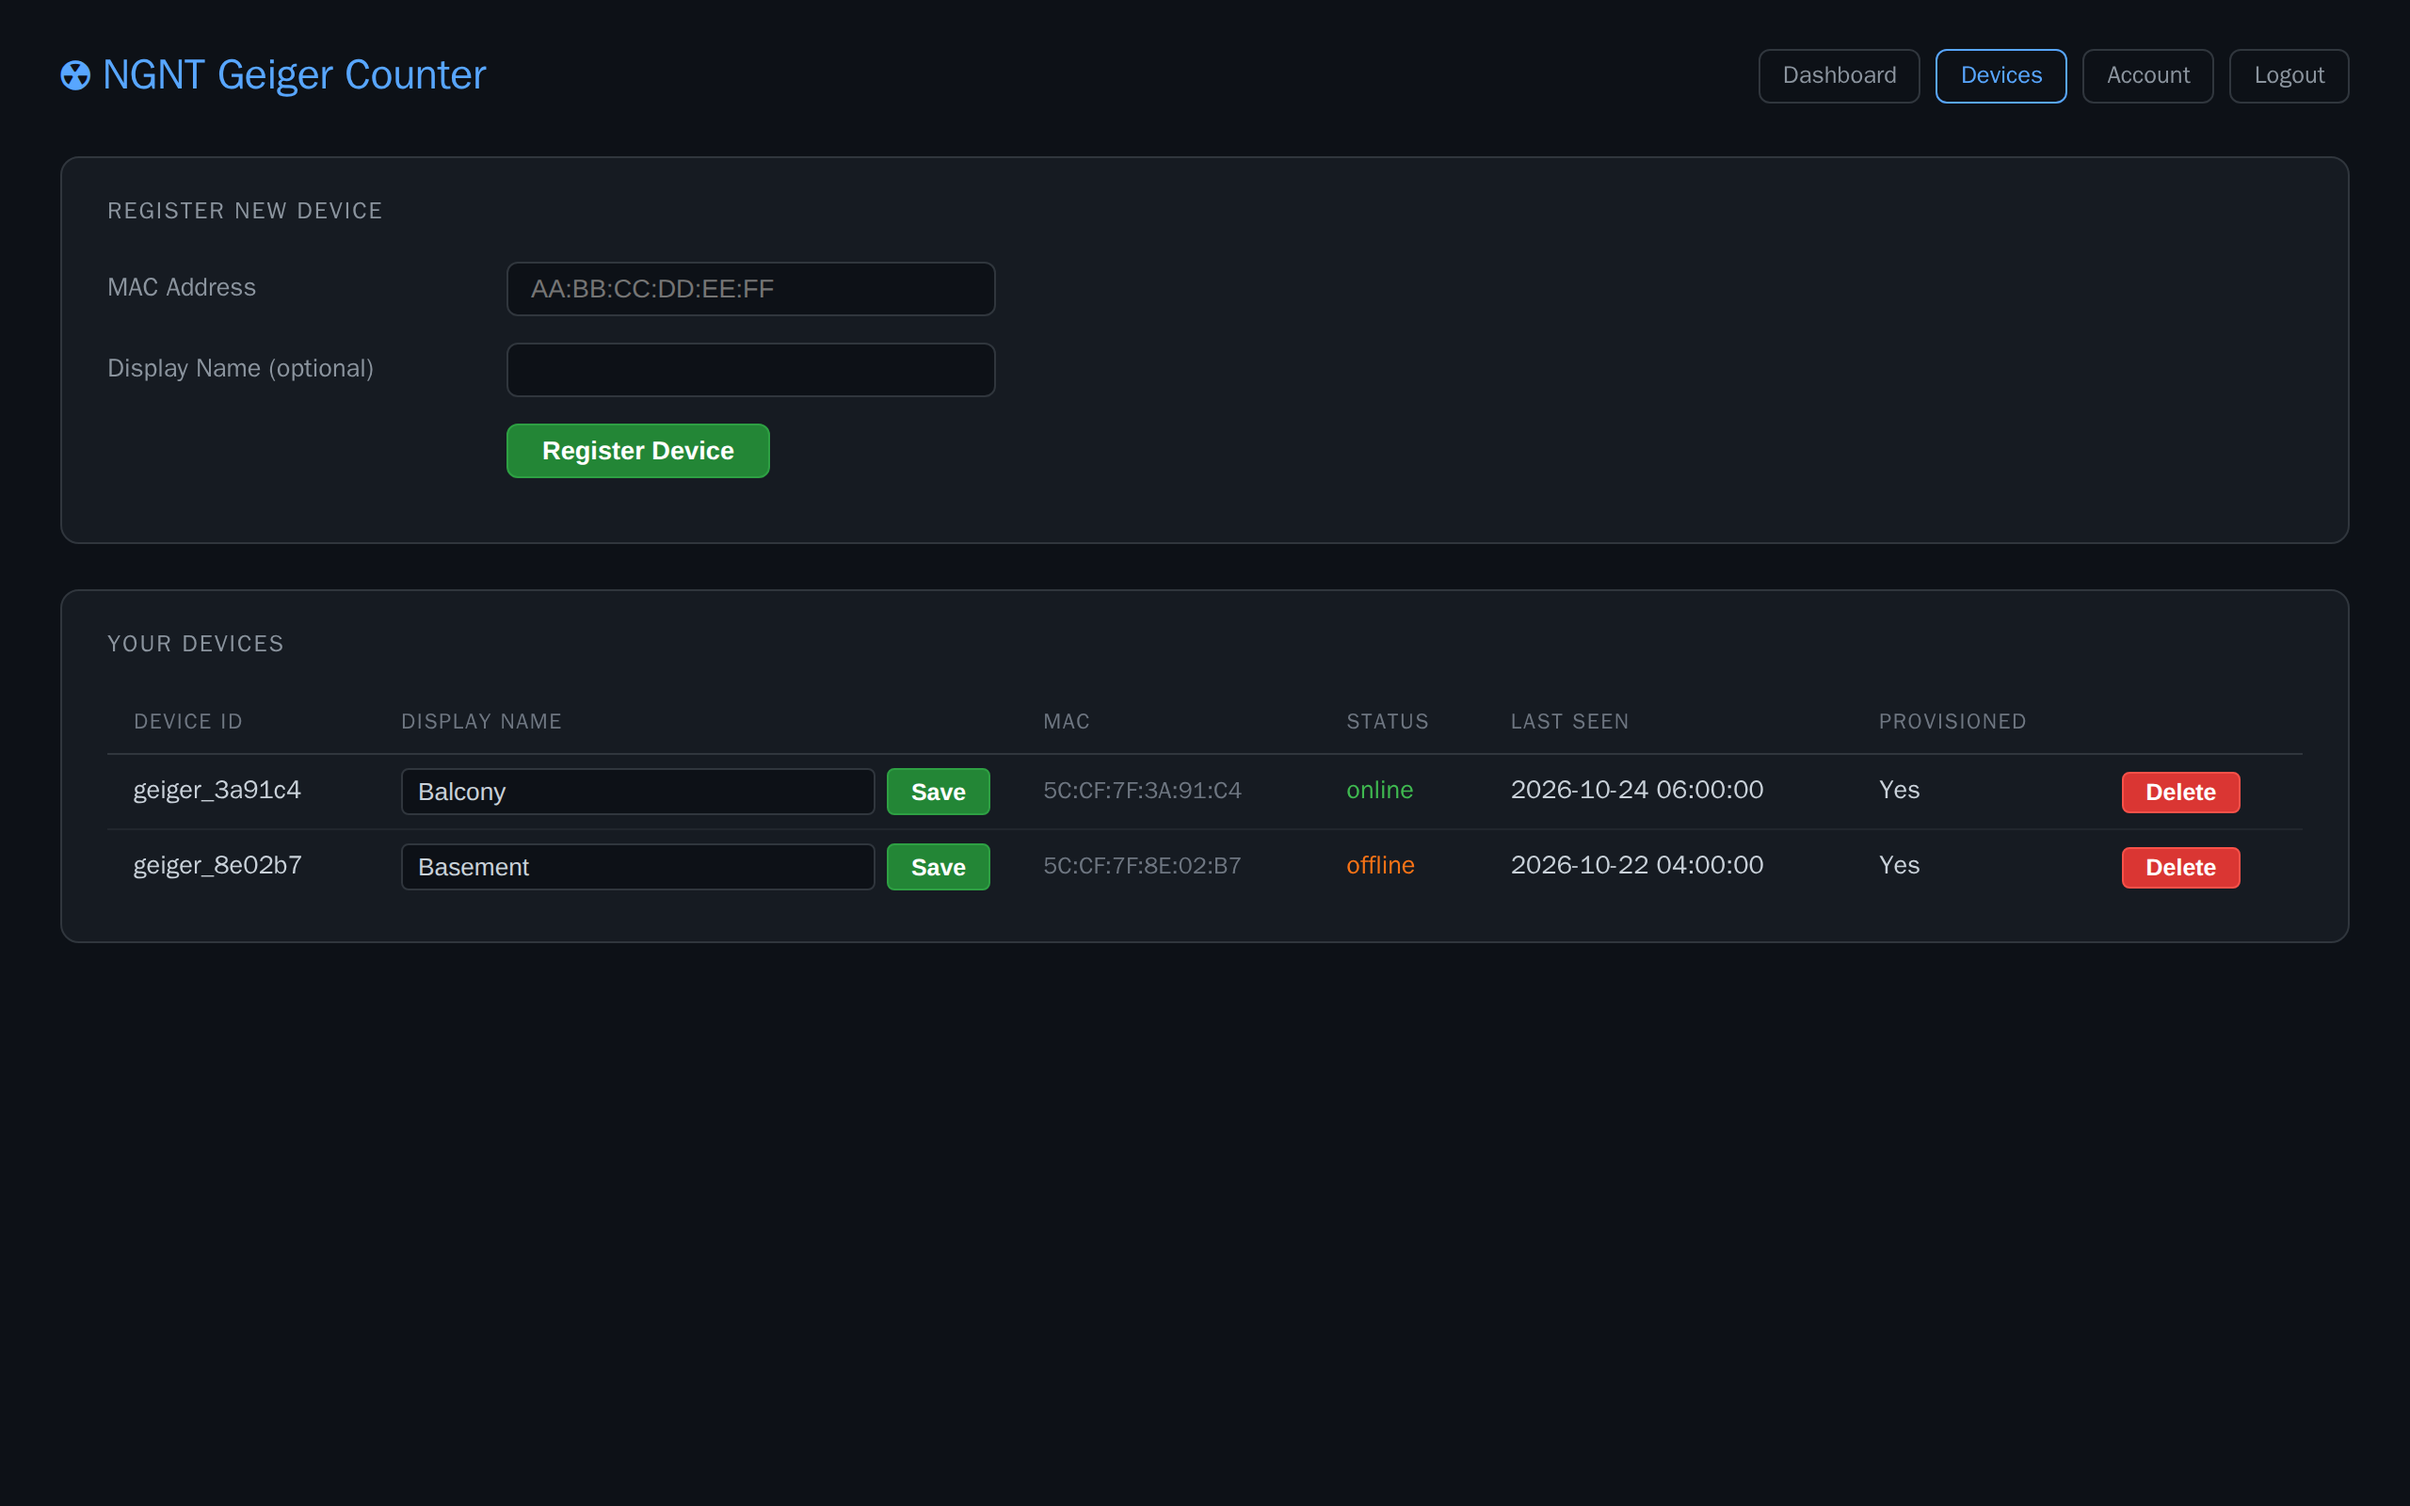
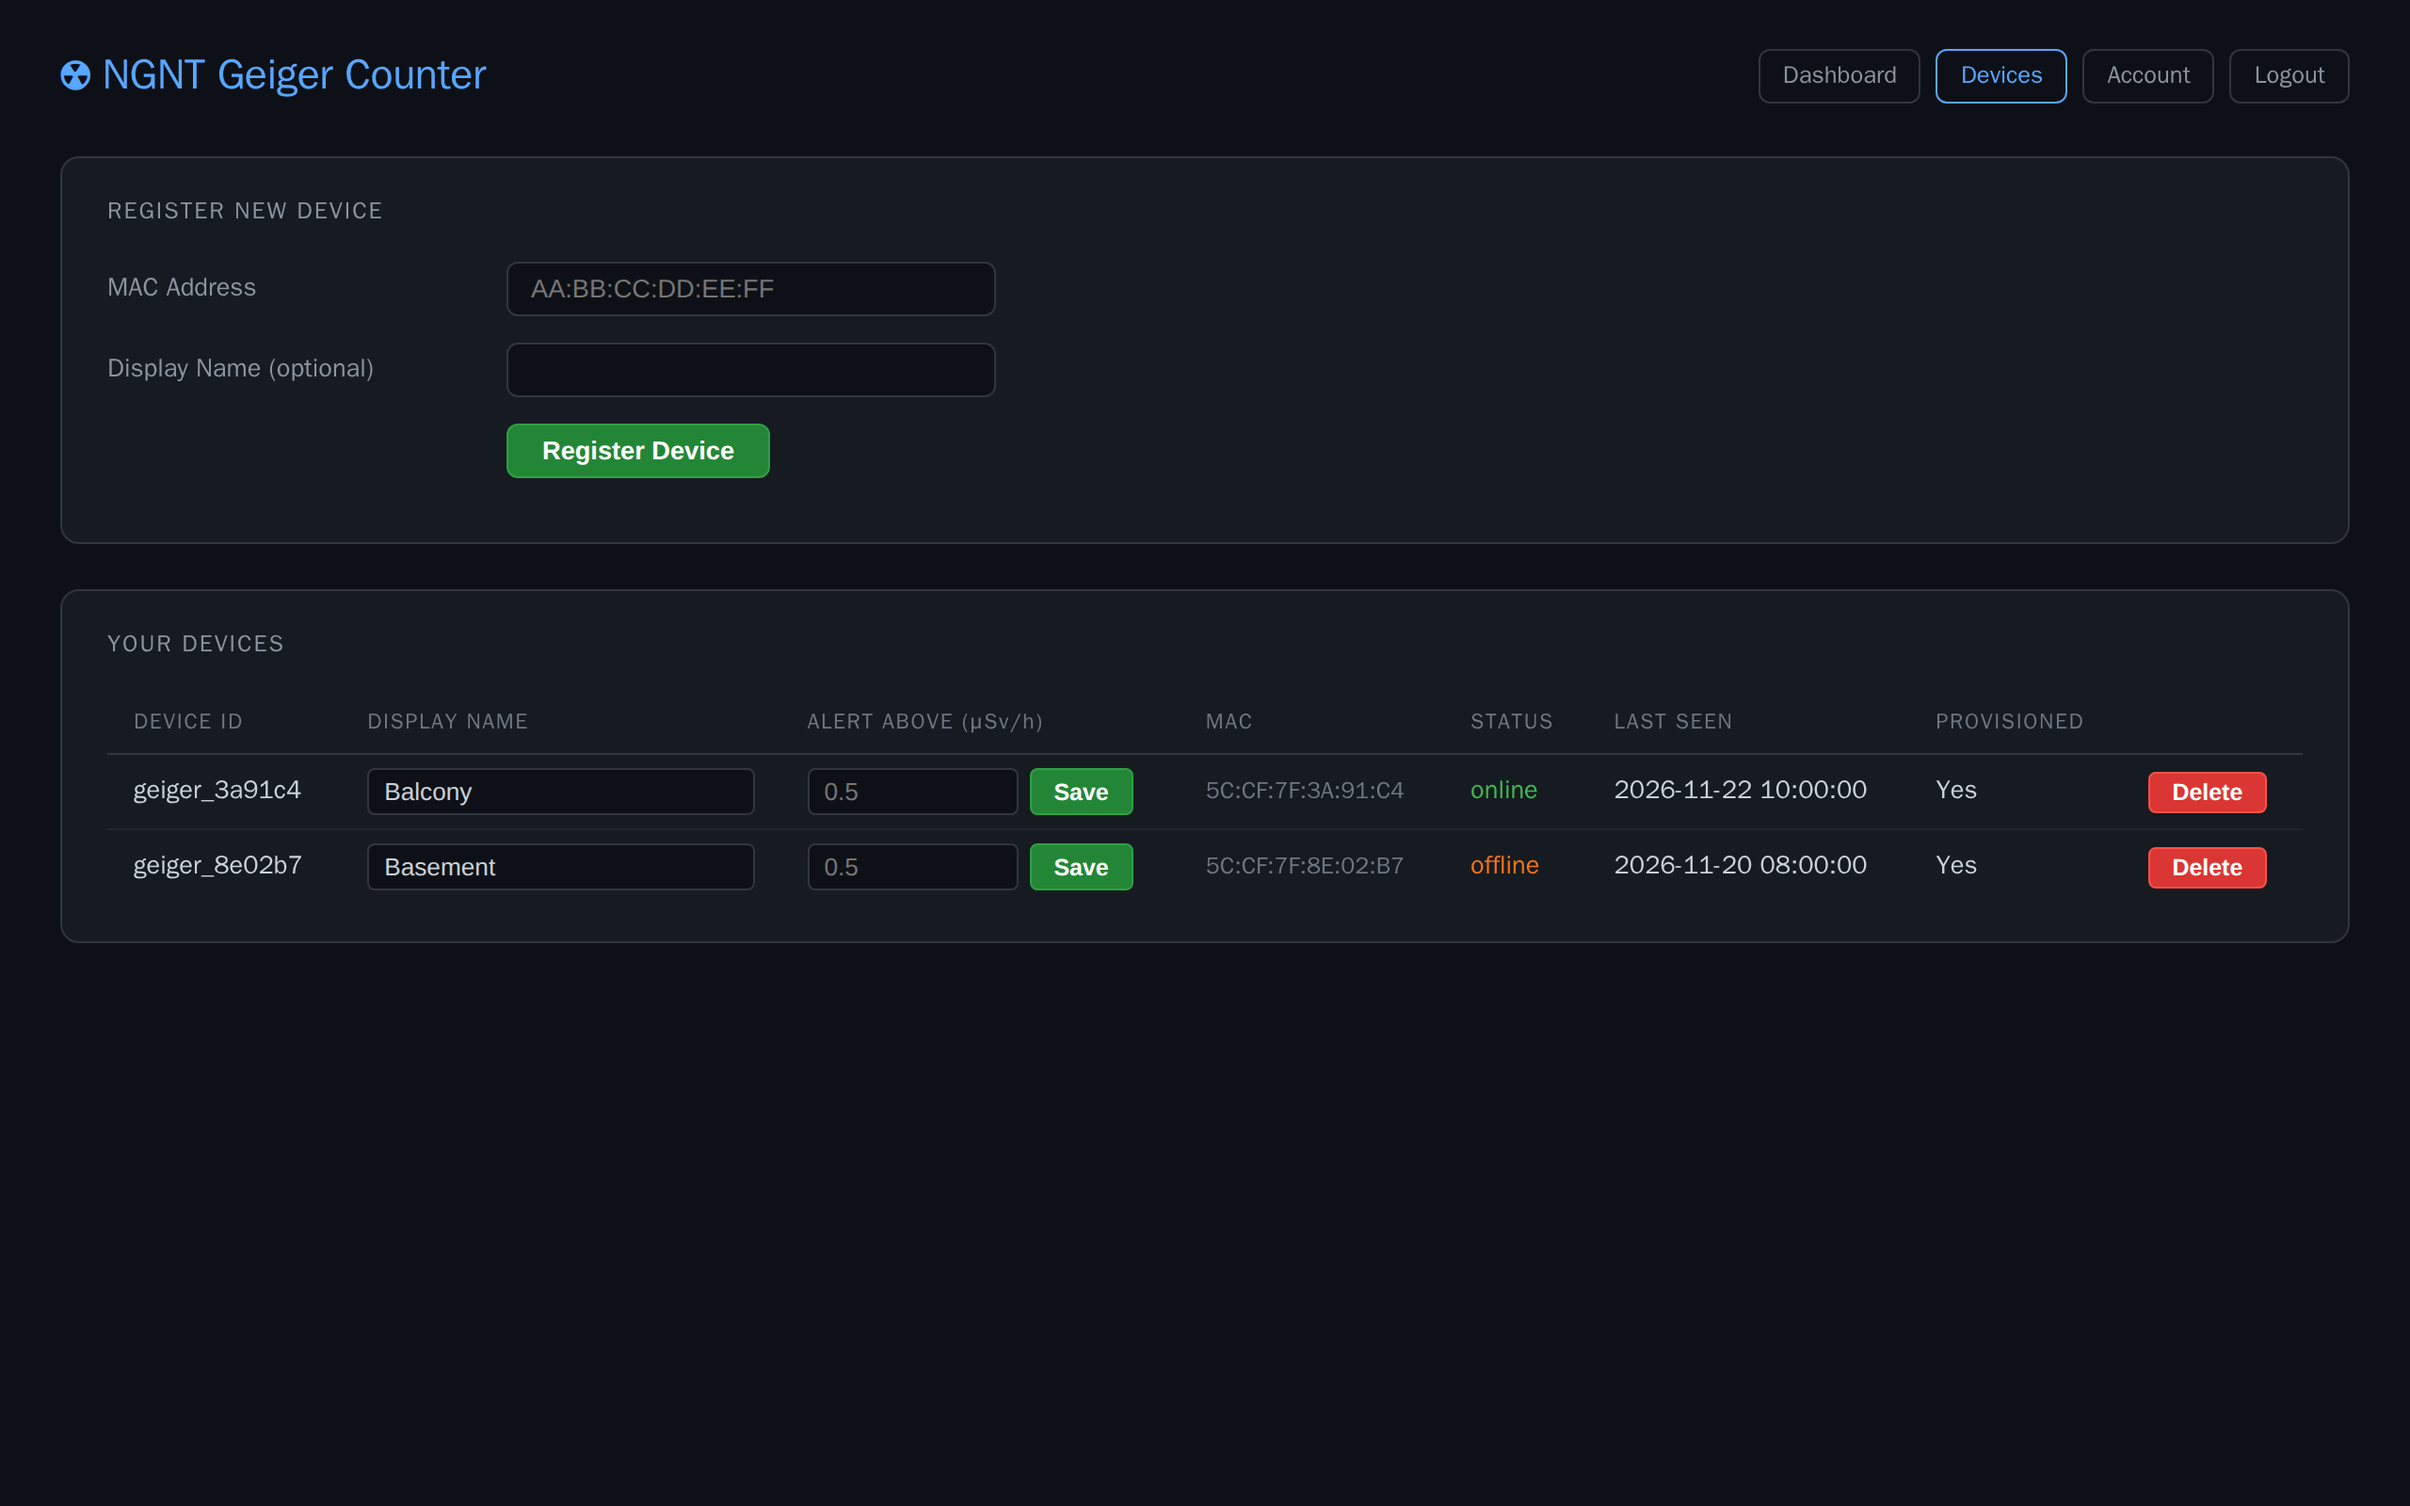
Screenshots: admin page without the SMTP password, devices with the alert threshold
admin.png still showed a filled SMTP password field from before the page
stopped rendering the stored password; regenerated with
scripts/docs-screenshots.sh it shows the empty field and its hint. devices.png
shows the new per-counter alert threshold column (gallery and user-guide
captions say so). The other PNGs are unchanged apart from the dashboards'
hour-based timestamps, so they are left as they were.

diff --git a/docs/user-guide.md b/docs/user-guide.md
@@ -100,7 +100,7 @@ Without a pepper, **Devices** asks you to set one first.
 3. Click **Register Device**. The page answers **Device geiger_… registered and provisioned.**
 4. The broker accepts the counter within 5 seconds. The counter connects on its next attempt (at most 2 minutes if it is showing the info screen), and its first reading follows within about three minutes (it starts counting at the next full minute).
 
-<img src="screenshots/devices.png" alt="Devices page: the register-device form and two counters, one online and one offline, with MAC, last seen and provisioning state" width="800">
+<img src="screenshots/devices.png" alt="Devices page: the register-device form and two counters, one online and one offline, with alert threshold, MAC, last seen and provisioning state" width="800">
 
 **Device geiger_… already registered.** means that counter is already on the server, on your account or someone else's.
 

diff --git a/docs/screenshots/README.md b/docs/screenshots/README.md
@@ -61,9 +61,10 @@ The page the emailed link opens (`/reset-password/<token>`).
 ## Devices
 
 `/devices`: register a counter by its WiFi MAC address (the server derives its MQTT login from the MAC and your
-pepper and provisions Mosquitto), rename or delete your counters, and see their status and last contact (in the display timezone).
+pepper and provisions Mosquitto), rename or delete your counters, set each one's alert threshold (empty: the admin's
+default), and see their status and last contact (in the display timezone).
 
-<img src="devices.png" alt="Devices page: the register-device form and two counters, one online and one offline, with MAC, last seen and provisioning state" width="800">
+<img src="devices.png" alt="Devices page: the register-device form and two counters, one online and one offline, with alert threshold, MAC, last seen and provisioning state" width="800">
 
 ## Devices — no pepper yet
 
